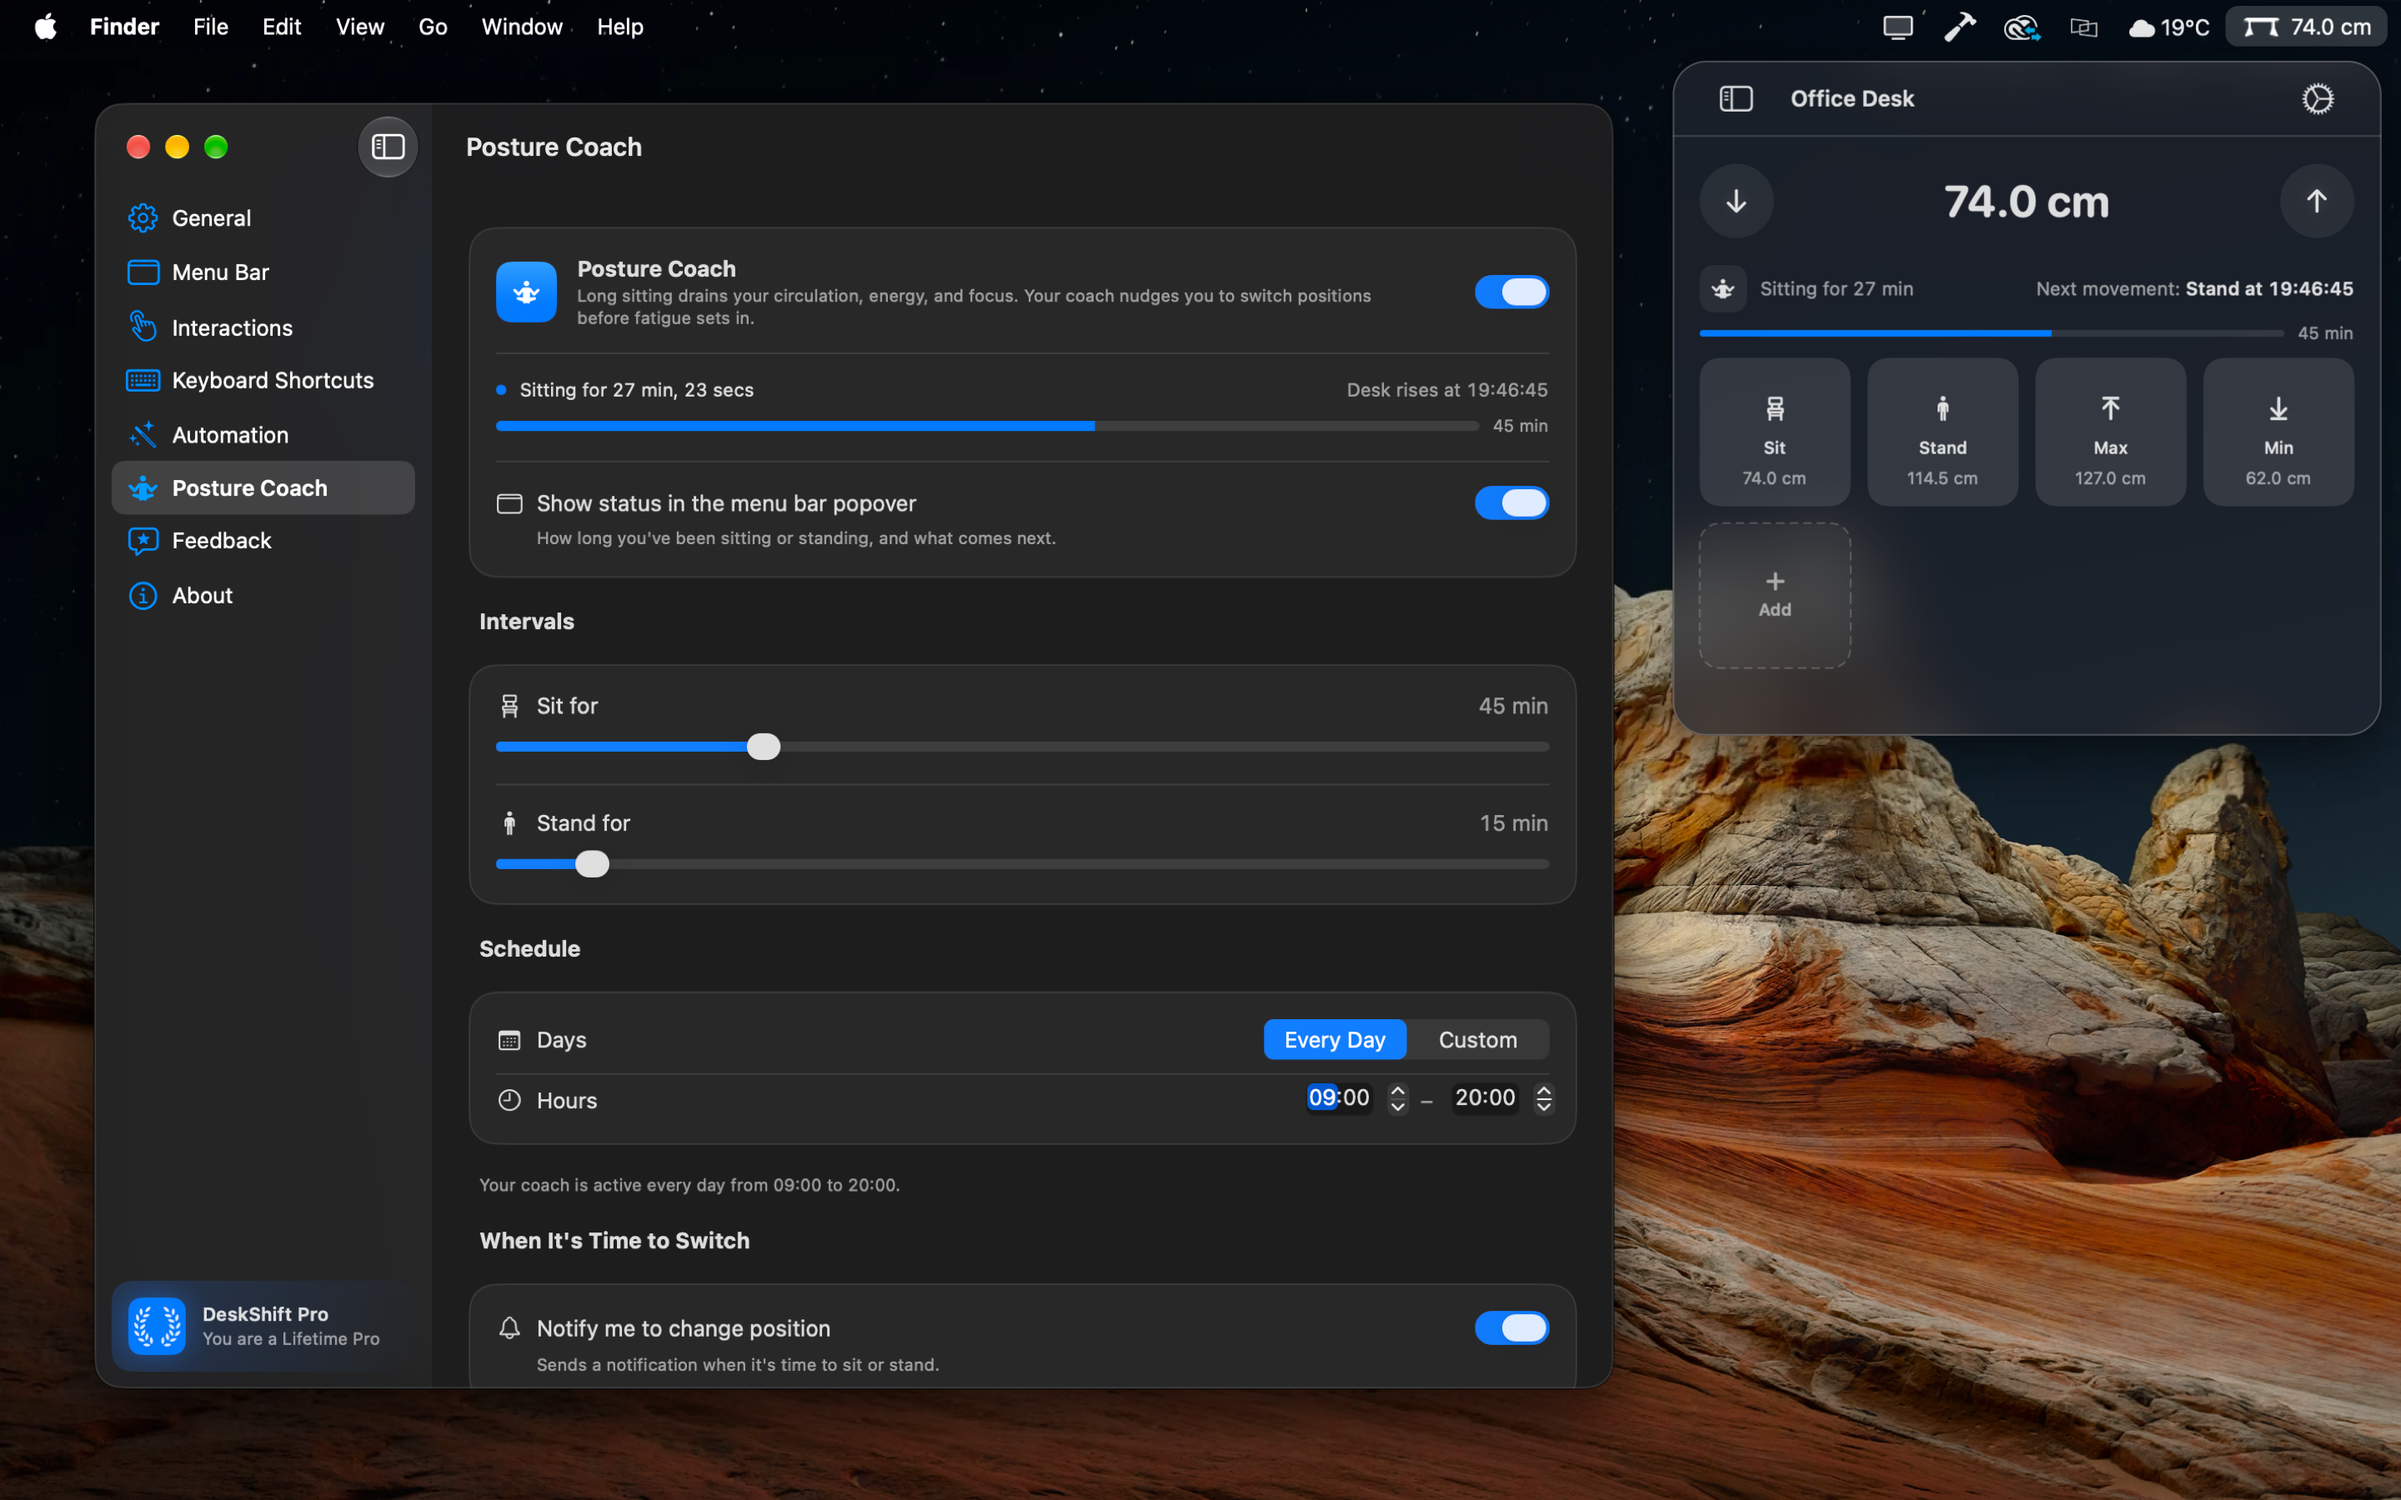
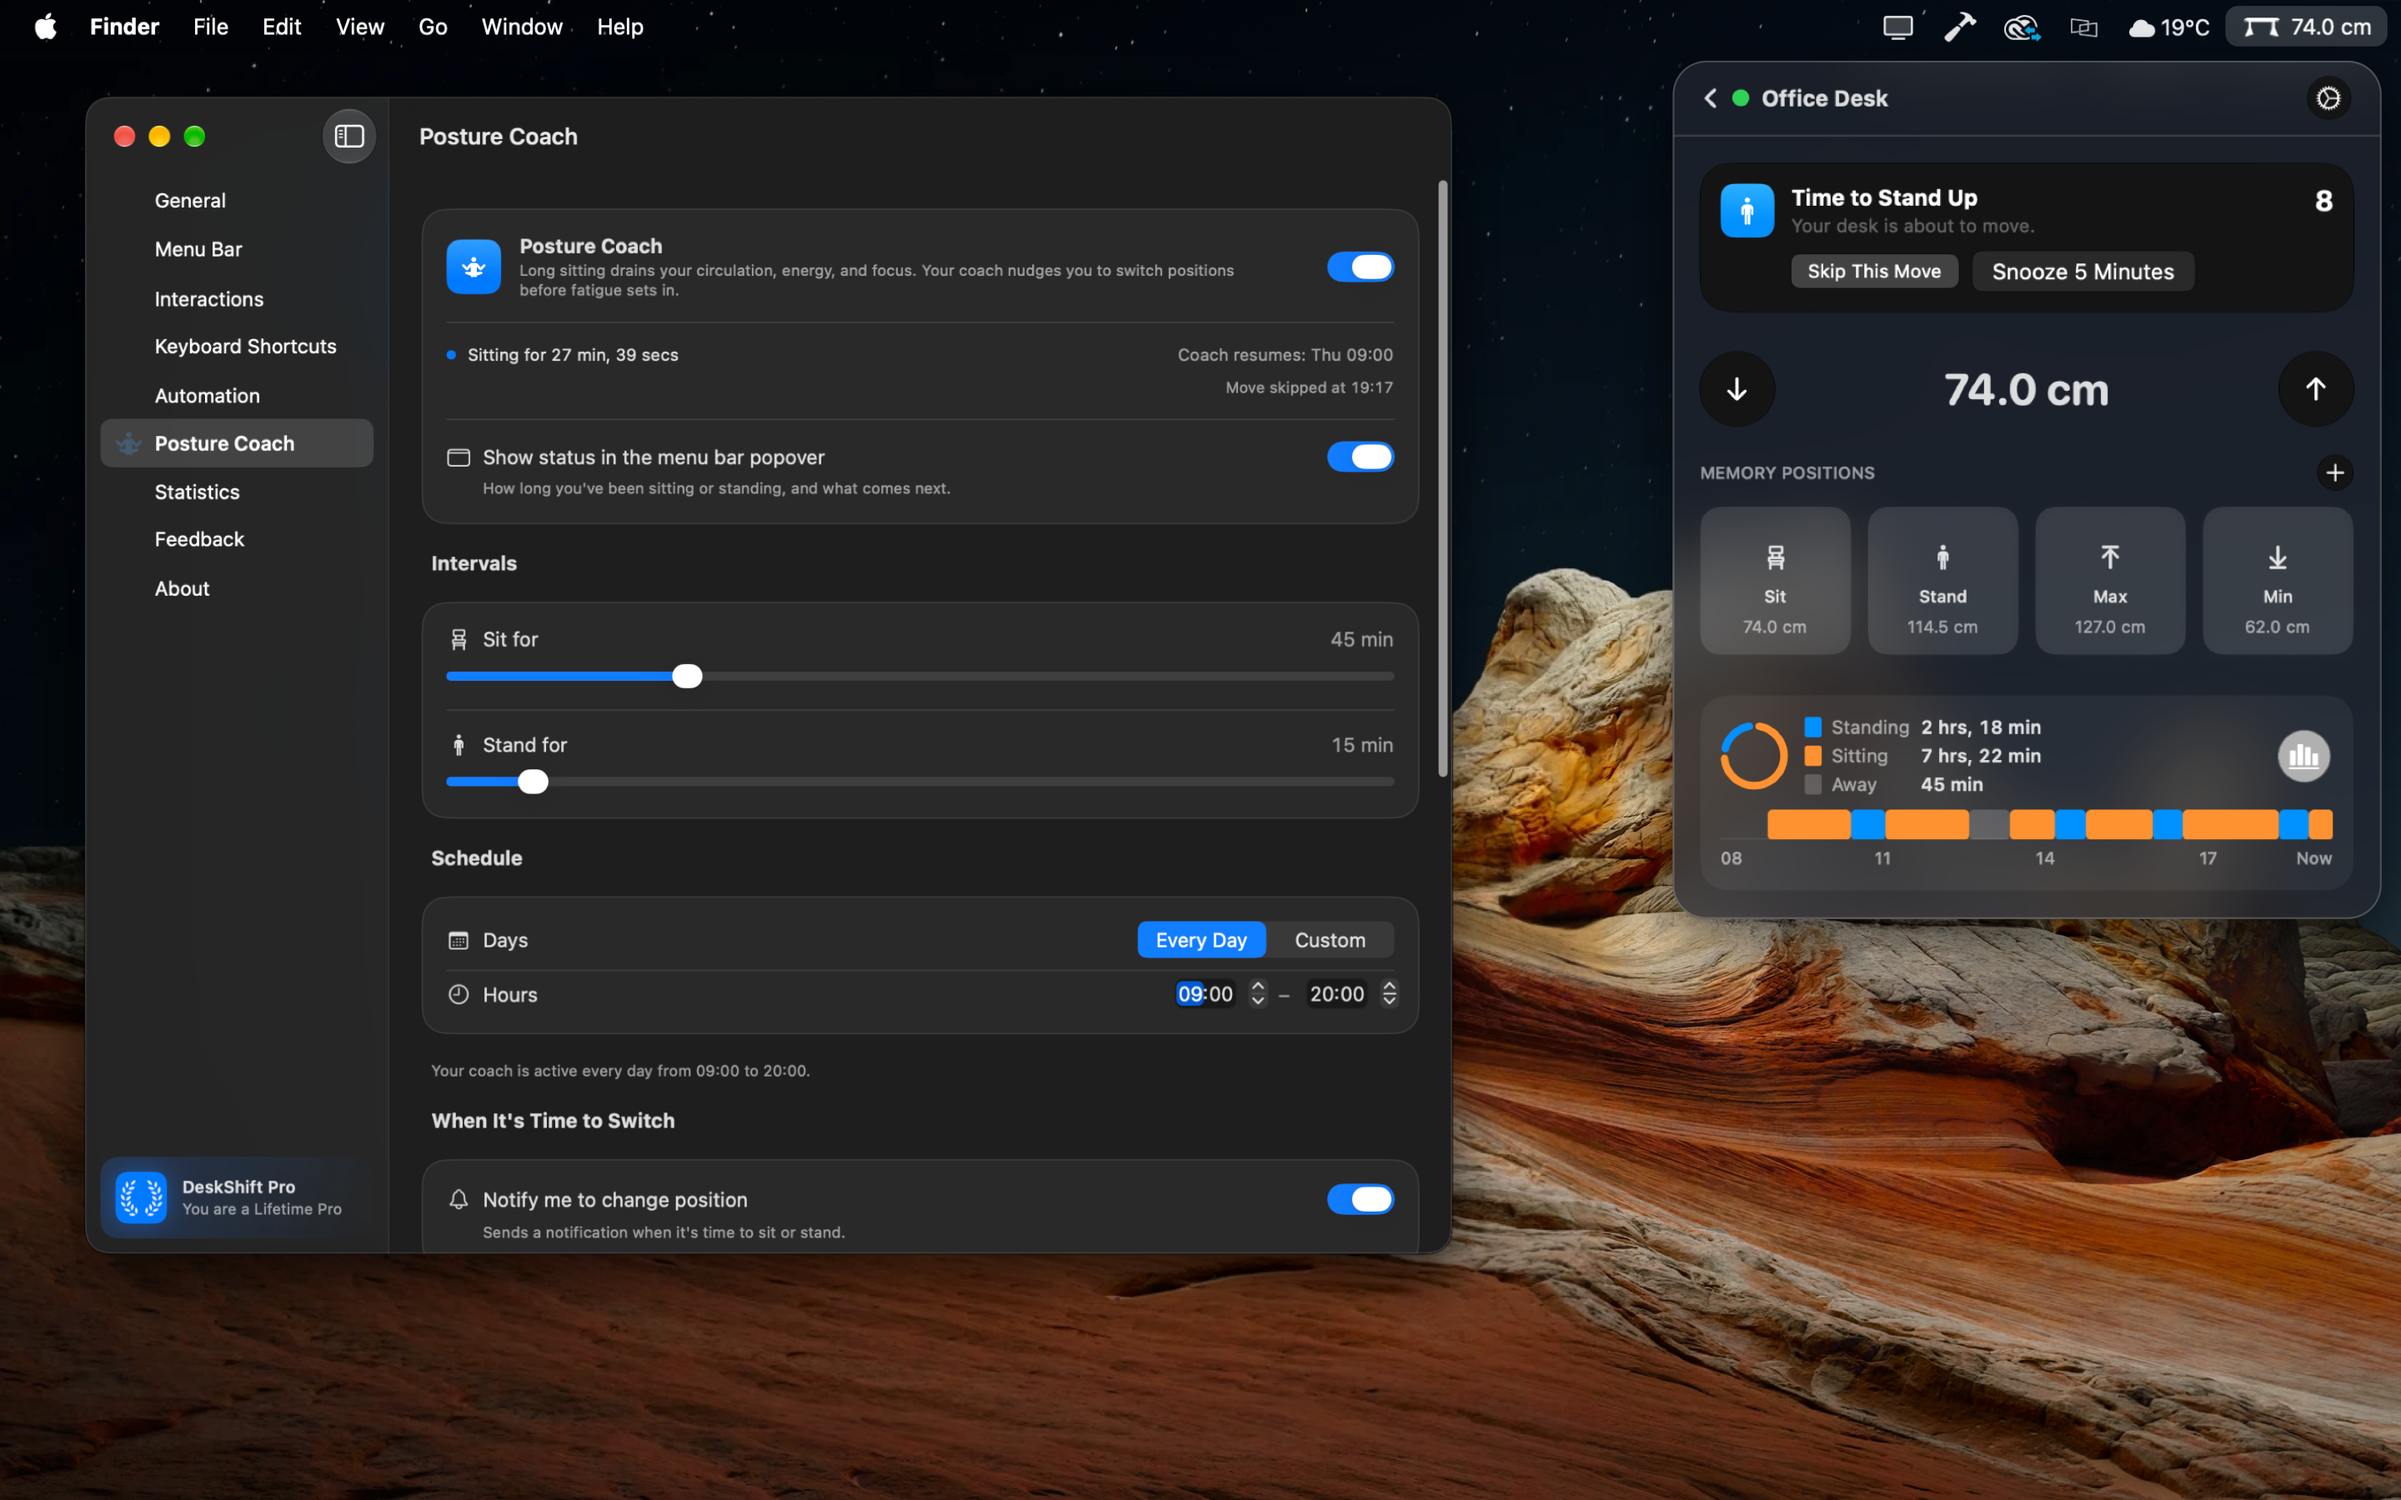
Prepare the site for DeskShift 1.5.0: Statistics and the redesigned popover
Home: Today, Statistics and Rhythm lead the carousel, fresh captures for the
other slides, What's New 1.5, Statistics (free) and Pause the streak (Pro) in
Free vs Pro, a statistics FAQ. Press: the 1.5 App Store set and its notes.
Support: where Statistics is and how to pause, export or delete it. Version
1.5.0, dated December 1. To go live with the release.

Changed region(s): [[0.0312, 0.0622, 1.0, 0.9644], [0.9375, 0.0933, 1.0, 0.1556], [0.0312, 0.6533, 0.0625, 0.6844]]

diff --git a/src/lib/deskshift.ts b/src/lib/deskshift.ts
@@ -15,8 +15,8 @@ export function appStoreUrl(campaign = "website"): string {
 }
 
 // The version that is live on the App Store, and the day it went live.
-export const VERSION = "1.4.0";
-export const VERSION_DATE = "November 23, 2026";
+export const VERSION = "1.5.0";
+export const VERSION_DATE = "December 1, 2026";
 
 // The desktop widget needs a newer macOS than the app.
 export const WIDGET_MIN_MACOS = "27";
